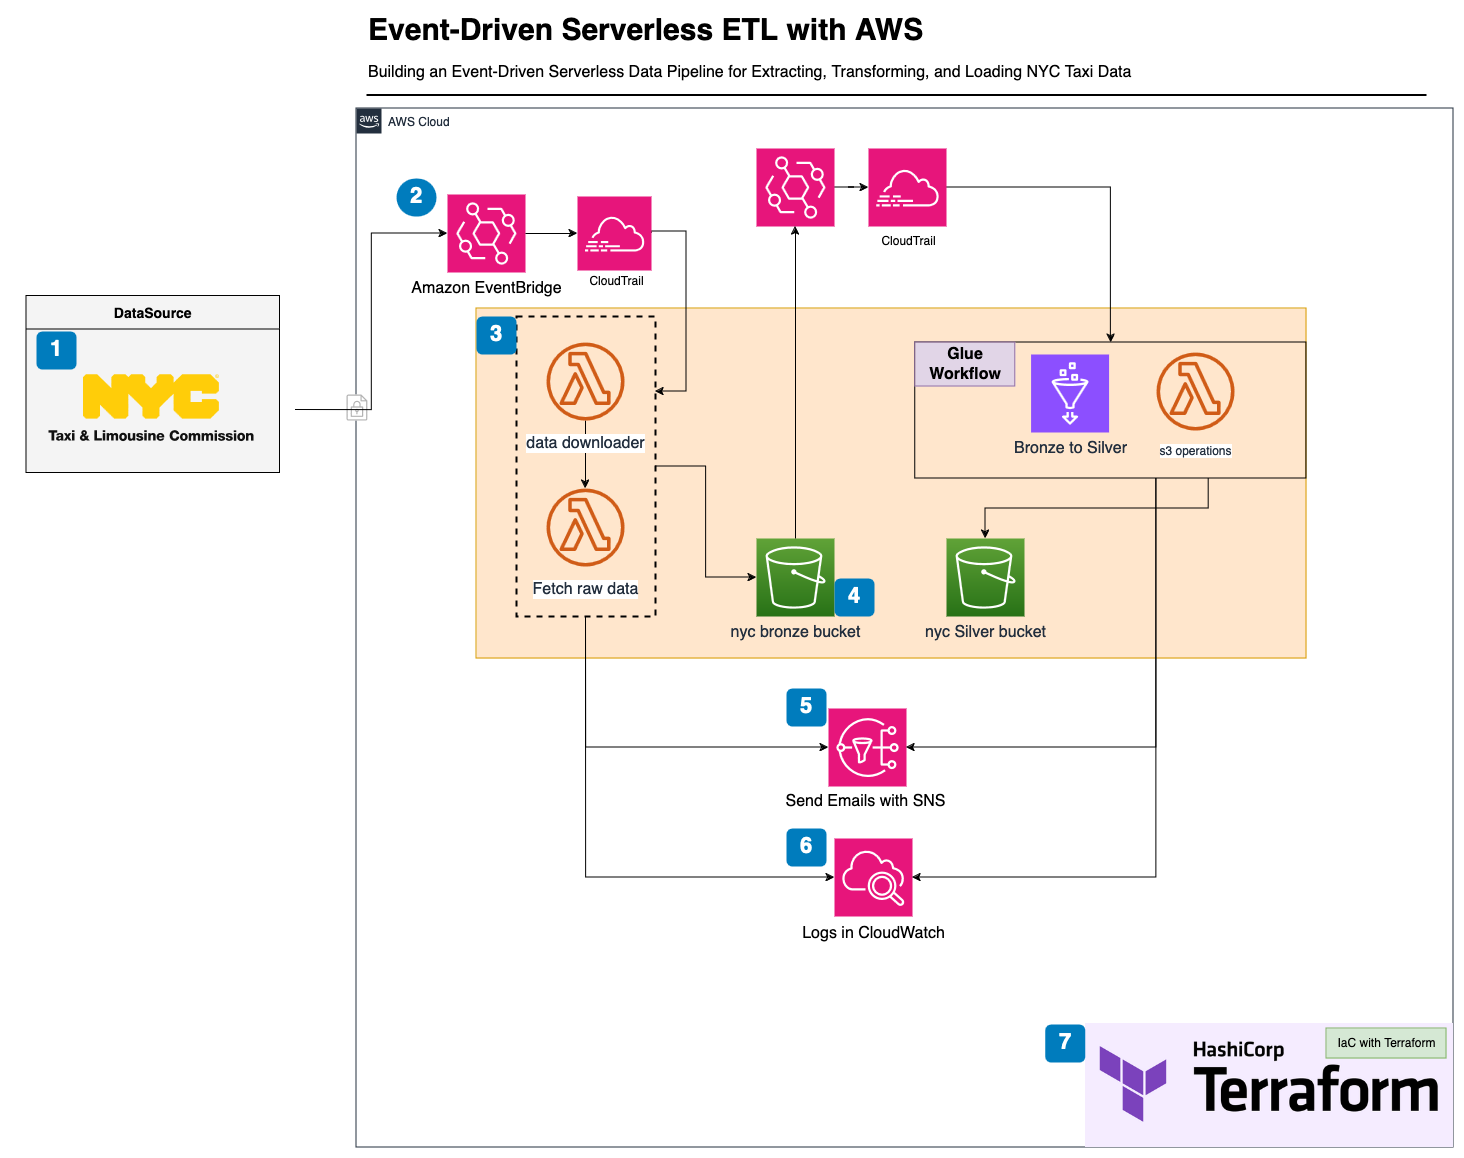
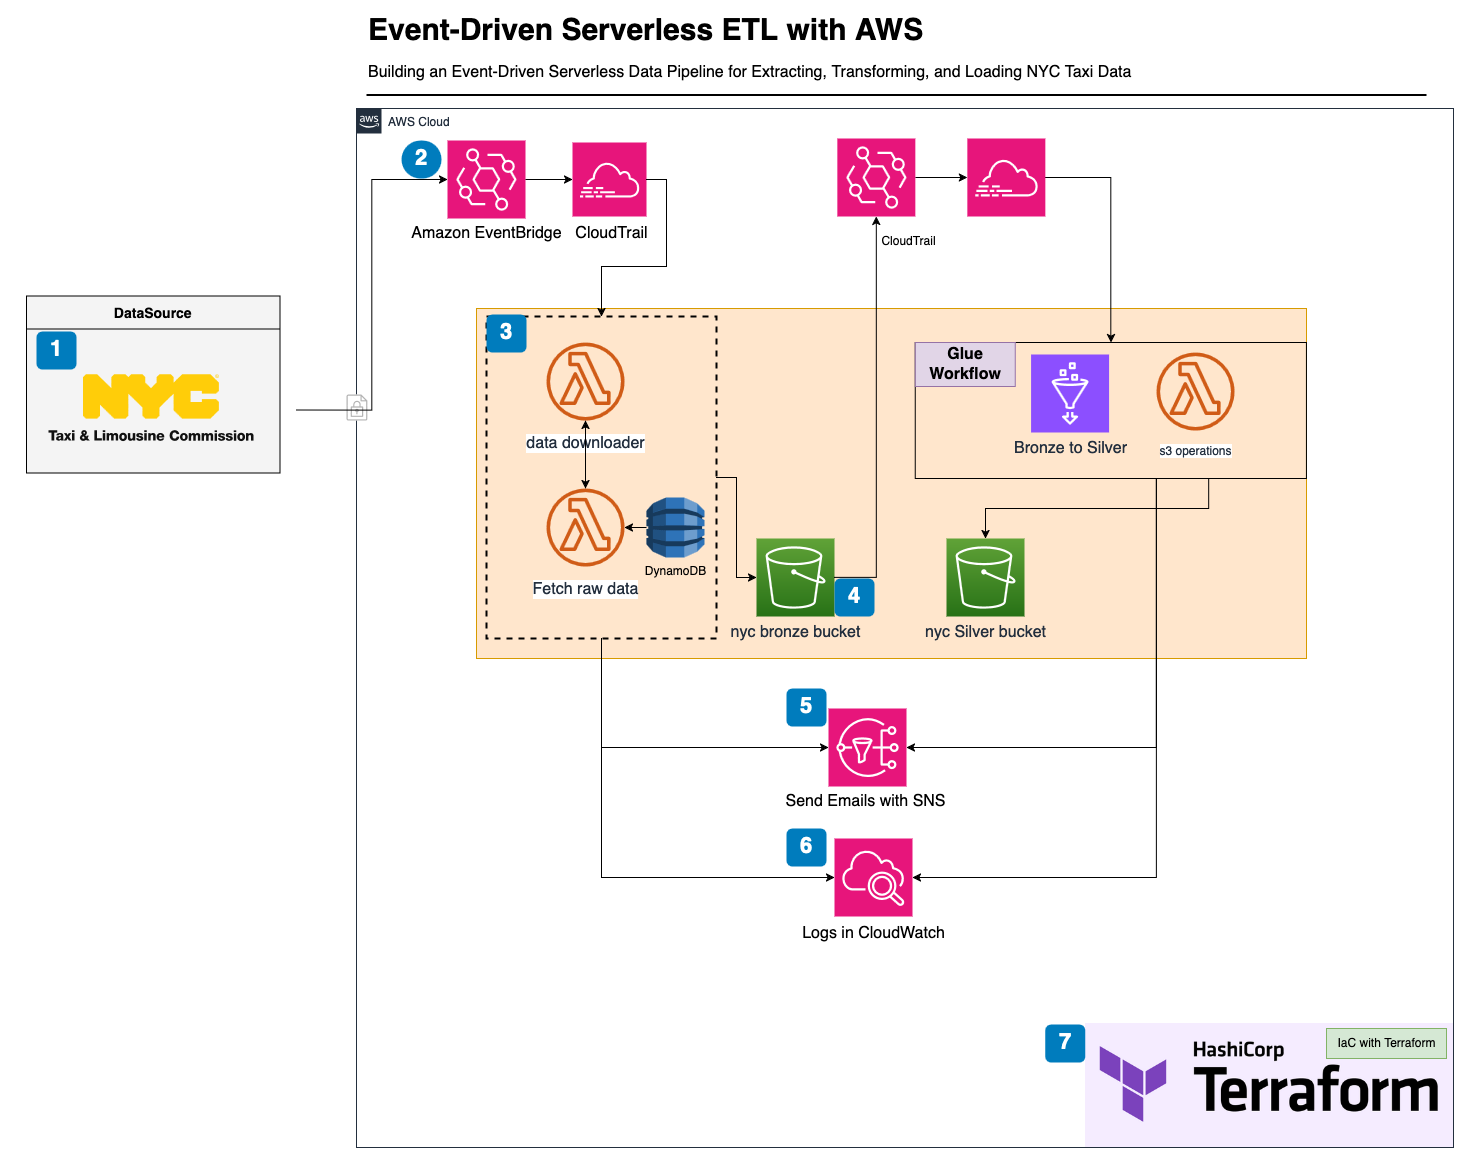
Process data daily, +dynamo db

diff --git a/src/lambda_functions/fetch_raw_data.py b/src/lambda_functions/fetch_raw_data.py
@@ -2,8 +2,12 @@ import json
 import logging
 import os
 from datetime import datetime, timedelta
+from typing import Any, Dict, Optional, Tuple, Union
 
 import boto3
+import requests
+from botocore.exceptions import ClientError
+from dateutil.relativedelta import relativedelta
 
 logger = logging.getLogger()
 logger.setLevel(logging.INFO)
@@ -11,31 +15,92 @@ logger.setLevel(logging.INFO)
 ROOT_URL = "https://d37ci6vzurychx.cloudfront.net/trip-data/"
 
 
-def get_monthly_url() -> str:
-    """Generate URL for previous month's NYC taxi data
+def check_url_exists(url: str) -> bool:
+    """
+    Check if the URL exists by making a HEAD request
 
     Args:
-        None
+        url (str): URL to check
 
     Returns:
-        str: URL for downloading previous month's taxi data
+        bool: True if URL exists, False otherwise
+    """
+    try:
+        response = requests.head(url, timeout=5)
+        return response.status_code == 200
+    except requests.RequestException:
+        return False
+
+
+def find_latest_available_data() -> Tuple[Optional[str], Optional[str]]:
+    """
+    Find the most recent available taxi data by checking URLs
+    starting from two months ago and going backwards
+
+    Returns:
+        Tuple[Optional[str], Optional[str]]: (URL if found, year-month string) or (None, None) if not found
     """
     current_date = datetime.now()
-    first_of_month = current_date.replace(day=1)
-    last_month = first_of_month - timedelta(days=1)
-    year_month = last_month.strftime("%Y-%m")
-    return f"{ROOT_URL}yellow_tripdata_{year_month}.parquet"
+
+    for months_back in range(2, 8):  # look for upto 6 months back for data
+        check_date = current_date - relativedelta(months=months_back)
+        year_month = check_date.strftime("%Y-%m")
+        url = f"{ROOT_URL}yellow_tripdata_{year_month}.parquet"
+
+        if check_url_exists(url):
+            return url, year_month
+
+    return None, None
+
+
+def get_last_processed_date(table_name: str) -> Optional[str]:
+    """
+    Retrieve the last processed year-month from DynamoDB
+
+    Args:
+        table_name (str): DynamoDB table name
+
+    Returns:
+        Optional[str]: Last processed year-month or None if not found
+    """
+    try:
+        dynamodb = boto3.resource("dynamodb")
+        table = dynamodb.Table(table_name)
+        response = table.get_item(Key={"id": "last_processed"})
+        return response.get("Item", {}).get("year_month")
+    except ClientError as e:
+        logger.error(f"Error accessing DynamoDB: {str(e)}")
+        return None
+
+
+def update_last_processed_date(table_name: str, year_month: str) -> bool:
+    """
+    Update the last processed year-month in DynamoDB
+
+    Args:
+        table_name (str): DynamoDB table name
+        year_month (str): Year-month string to store
+
+    Returns:
+        bool: True if successful, False otherwise
+    """
+    try:
+        dynamodb = boto3.resource("dynamodb")
+        table = dynamodb.Table(table_name)
+        table.put_item(Item={"id": "last_processed", "year_month": year_month, "updated_at": datetime.now().isoformat()})
+        return True
+    except ClientError as e:
+        logger.error(f"Error updating DynamoDB: {str(e)}")
+        return False
 
 
 def notify(subject: str, message: str) -> None:
-    """Send SNS notification about processing status
+    """
+    Send SNS notification about processing status
 
     Args:
         subject (str): notification subject line
         message (str): detailed notification message
-
-    Returns:
-        None: sends SNS notification if topic ARN configured
     """
     try:
         sns = boto3.client("sns")
@@ -47,7 +112,8 @@ def notify(subject: str, message: str) -> None:
 
 
 def lambda_handler(event: Dict[str, Any], context: Any) -> Dict[str, Union[int, str]]:
-    """Orchestrate fetching of new NYC taxi data
+    """
+    Orchestrate fetching of new NYC taxi data.
 
     Args:
         event (dict): Lambda event trigger
@@ -55,14 +121,25 @@ def lambda_handler(event: Dict[str, Any], context: Any) -> Dict[str, Union[int, 
 
     Returns:
         dict: processing status and results
-            statusCode (int): HTTP status code
-            body (str): success/error message
     """
     try:
-        url = get_monthly_url()
-        logger.info(f"Generated URL: {url}")
+        # Find the latest available data URL
+        url, year_month = find_latest_available_data()
+        if not url:
+            message = "No new taxi data available within the last 6 months"
+            notify("NYC Taxi Data Processing Skip", message)
+            return {"statusCode": 200, "body": json.dumps(message)}
 
-        payload = {"url": url, "year_month": datetime.now().strftime("%Y-%m")}
+        # Check if we've already processed this month
+        last_processed = get_last_processed_date(os.environ.get("DYNAMODB_TABLE_NAME", "nyc-taxi-processing"))
+        if last_processed and last_processed >= year_month:
+            message = f"Data for {year_month} has already been processed"
+            notify("NYC Taxi Data Processing Skip", message)
+            return {"statusCode": 200, "body": json.dumps(message)}
+
+        # Process the data
+        logger.info(f"Processing data for {year_month} from URL: {url}")
+        payload = {"url": url, "year_month": year_month}
 
         lambda_client = boto3.client("lambda")
         processor_response = lambda_client.invoke(
@@ -73,9 +150,13 @@ def lambda_handler(event: Dict[str, Any], context: Any) -> Dict[str, Union[int, 
         logger.info(f"Processor response: {response_payload}")
 
         if processor_response["StatusCode"] == 200 and response_payload.get("statusCode") == 200:
-            message = f"Successfully processed NYC taxi data for {payload['year_month']}"
-            notify("NYC Taxi Data Processing Success", message)
-            return {"statusCode": 200, "body": json.dumps(message)}
+            # Update the last processed date
+            if update_last_processed_date(os.environ.get("DYNAMODB_TABLE_NAME", "nyc-taxi-processing"), year_month):
+                message = f"Successfully processed NYC taxi data for {year_month}"
+                notify("NYC Taxi Data Processing Success", message)
+                return {"statusCode": 200, "body": json.dumps(message)}
+            else:
+                raise Exception("Failed to update processing status in DynamoDB")
         else:
             error_message = f"Failed to process NYC taxi data: {response_payload}"
             notify("NYC Taxi Data Processing Failed", error_message)

diff --git a/README.md b/README.md
@@ -1,7 +1,7 @@
 # Learn Event-Driven ETL Pipeline with AWS Serverless
 
-## Project Description 
-This project demonstrates how to build an event-driven ETL (Extract, Transform, Load) pipeline using AWS Serverless services. The pipeline ingests NYC Taxi data monthly, processes it through various stages (raw, transformed), and loads it into a data warehouse for analysis. 
+## Project Description
+This project demonstrates how to build an event-driven ETL (Extract, Transform, Load) pipeline using AWS Serverless services. The pipeline ingests NYC Taxi data monthly, processes it through various stages (raw, transformed), and loads it into a data warehouse for analysis.
 
 ### Key Features
 
@@ -60,15 +60,15 @@ export PYTHONPATH=$PYTHONPATH:$PWD
 cd terraform
 terraform init
 
-python scripts/build_lambda.py # --overwrite, if need to overwrite       
+python scripts/build_lambda.py # --overwrite, if need to overwrite
 python scripts/build_lambda.py --layer requests
 
 
 terraform validate
 terraform plan
 terraform apply
-aws lambda invoke --function-name nytaxi_orchestrator output_orchestrator.txt
 
+aws lambda invoke --function-name nytaxi_fetch_raw_data nytaxi_fetch_raw_data.txt
 
 
 
@@ -125,7 +125,7 @@ The diagram will be updated to reflect the services and workflow as progress con
 
 ## Prerequisites
 
-**AWS Account**: Sign up for AWS Free Tier. 
+**AWS Account**: Sign up for AWS Free Tier.
 
 **AWS IAM USER**: Create an IAM User called `admin-user` with Administrative Previlege
 
@@ -160,7 +160,7 @@ aws iam list-users
 ```bash
 cd terraform
 # add provider.tf
-terraform fmt # Autoformat 
+terraform fmt # Autoformat
 terraform init # Intialize
 
 # Create additional variables.tf
@@ -170,7 +170,7 @@ terraform init # Intialize
 ```bash
 # Define resources, roles and access in main.tf
 terraform validate
-terraform plan 
+terraform plan
 terraform apply
 ```
 
@@ -184,21 +184,21 @@ Note: Using harcoded Pandas SDK. [ARN LINK](https://aws-sdk-pandas.readthedocs.i
 
 1. **`aws_s3_bucket.my_bucket`:**
     - Creates an S3 bucket with a name defined by the variable `var.s3bronze_nyctaxi`.
-        
+
         **`aws_s3_bucket_versioning.versioning`:**
-        
+
         - Enables versioning for the S3 bucket `my_bucket`.
-        
+
         **`aws_s3_bucket_server_side_encryption_configuration.encryption`:**
-        
+
         - Configures server-side encryption using the AES256 algorithm to encrypt objects stored in the bucket.
-        
+
         **`aws_s3_bucket_public_access_block.public_access_block`:**
-        
+
         - Blocks public access to the bucket by disabling public ACLs and policies.
-        
+
         **`aws_s3_bucket_lifecycle_configuration.bucket_lifecycle`:**
-        
+
         - Adds a lifecycle rule for the bucket to manage object transitions and expiration:
         - Moves objects to the `STANDARD_IA` (Infrequent Access) storage class after 30 days.
         - Deletes objects after 90 days.
@@ -219,17 +219,17 @@ Note: Using harcoded Pandas SDK. [ARN LINK](https://aws-sdk-pandas.readthedocs.i
 
 1. **`aws_s3_bucket.lambda_code`:**
     - Creates another S3 bucket for storing Lambda code, appending `lambda-code` to the bucket name.
-    
+
     **`aws_s3_bucket_versioning.lambda_code_versioning`:**
-    
+
     - Enables versioning for the Lambda code bucket.
-    
+
     **`aws_s3_bucket_public_access_block.lambda_code_public_access_block`:**
-    
+
     - Blocks public access for the Lambda code bucket.
-    
+
     **`aws_s3_object.lambda_code`:**
-    
+
     - Uploads the Lambda function code (`lambda_function.zip`) to the `lambda_code` bucket.
     - Uses the MD5 checksum to ensure the integrity of the uploaded file.
 

diff --git a/docs/index.md b/docs/index.md
@@ -8,12 +8,12 @@
 ### Data Extraction
 
 #### Data Source
-The pipeline uses the NYC yellow cab trip dataset stored in Parquet format, updated with a month delay.
+The pipeline uses the NYC yellow cab trip dataset stored in Parquet format, updated with two months delay(usally).
 
 `Data Website`: [Nyc Taxi Data](https://www.nyc.gov/site/tlc/about/tlc-trip-record-data.page)
 
 #### Scheduling with Amazon EventBridge and CloudTrail:
-Amazon EventBridge applies a schedule rule (`cron(0 0 1 * ? *)`) to trigger the pipeline monthly at midnight on the first day of the month.
+Amazon EventBridge applies a schedule rule (`cron(0 11 * * ? *)`) to trigger the pipeline daily at 11 am(Because of irregularity in updates of nyc yellow taxi trip data). Lambda function handles if data is available and making sure no duplicate data is processed.
 
 `nytaxi-monthly-trigger`: Amazon EventBridge Sechule rule
 ![alt text](image.png)
